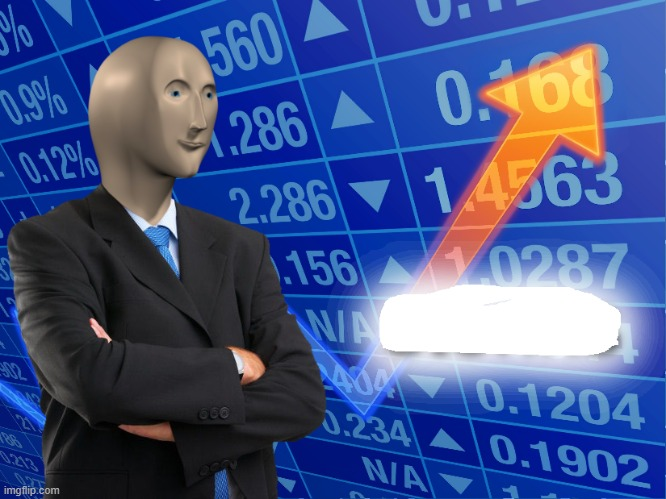
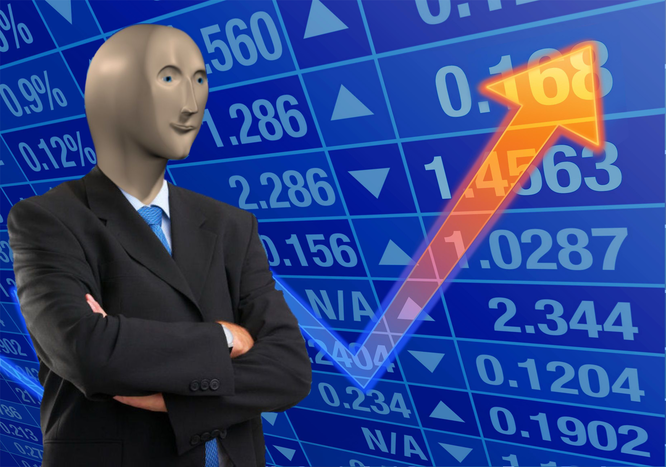
Add radial gradient in canvas

diff --git a/index.js b/index.js
@@ -1,29 +1,40 @@
 const input = $("#word");
 const output = $("#wordstonked");
 const button = $("button");
+
+//Canvas Settings
 const canvas = document.getElementById("stonkscanvas");
-const context = canvas.getContext("2d");
-const imageObj = new Image();
+const ctx = canvas.getContext("2d");
+ctx.shadowColor = "#fff";
+ctx.shadowBlur = 50;
+ctx.fillStyle = "#fff";
+ctx.font = "40pt Impact";
+ctx.strokeStyle = "#000";
 
 //Load image
-imageObj.onload = function() {
-  context.drawImage(imageObj, 10, 10);
+const imageObj = new Image();
+imageObj.onload = function () {
+  ctx.drawImage(imageObj, 10, 10);
 };
 imageObj.src = "stonks.jpg";
 
 // handle click and add class
-button.on("click", function() {
+button.on("click", function () {
   let word = input.val();
   console.log("Clicked");
   if (validate(word)) {
     console.log("Good word");
     let newWerd = stonksify(word);
     //Clear canvas before drawing new word
-    context.clearRect(0, 0, canvas.width, canvas.height);
+    ctx.clearRect(0, 0, canvas.width, canvas.height);
     //Redraw image
-    context.drawImage(imageObj, 10, 10);
-    context.font = "40pt Impact";
-    context.strokeText(newWerd, 430, 350);
+    ctx.drawImage(imageObj, 10, 10);
+    //Draw text multiple times so the white radial shadow is more pronounced
+    for (let i = 0; i < 10; i++) {
+      ctx.fillText(newWerd, 430, 350);
+    }
+    ctx.strokeText(newWerd, 430, 350);
+    ctx.strokeText(newWerd, 430, 350);
   }
 });
 
@@ -55,6 +66,13 @@ function stonksify(word) {
   //Example: frog => freg;
   if (word.split("o").length - 1 === 1) {
     word = word.replace(/o/g, "e");
+    return word;
+  }
+
+  //If a word ends in th, replace it with f
+  //Example: health => helf
+  if (word.endsWith("th") === 0) {
+    word = word.replace(/^c/g, "k");
     return word;
   }
 

diff --git a/index.html b/index.html
@@ -1,34 +1,33 @@
 <!DOCTYPE html>
 
 <html lang="en">
-  <head>
-    <meta charset="utf-8" />
-    <title>Stonksify</title>
-    <meta name="description" content="Stonksify your werds!" />
-    <meta name="author" content="The Boys" />
-    <link rel="stylesheet" href="./style.css" />
-    <link rel="icon" href="./meme_man.png" />
-  </head>
 
-  <body>
-    <div>
-      <h2>
-        Enter a werd!
-      </h2>
-      <input id="word" type="text" />
-      <button>
-        Stonksify
-      </button>
-      <br />
-      <br />
+<head>
+  <meta charset="utf-8" />
+  <title>Stonksify</title>
+  <meta name="description" content="Stonksify your werds!" />
+  <meta name="author" content="The Boys" />
+  <link rel="stylesheet" href="./style.css" />
+  <link rel="icon" href="./meme_man.png" />
+</head>
 
-      <canvas id="stonkscanvas" width="666" height="519"></canvas>
-    </div>
-    <script
-      src="https://code.jquery.com/jquery-3.4.1.min.js"
-      integrity="sha256-CSXorXvZcTkaix6Yvo6HppcZGetbYMGWSFlBw8HfCJo="
-      crossorigin="anonymous"
-    ></script>
-    <script src="./index.js"></script>
-  </body>
+<body>
+  <div>
+    <h2>
+      Enter a werd!
+    </h2>
+    <input id="word" type="text" />
+    <button>
+      Stonksify
+    </button>
+    <br />
+    <br />
+
+    <canvas id="stonkscanvas" width="666" height="519"></canvas>
+  </div>
+  <script src="https://code.jquery.com/jquery-3.4.1.min.js"
+    integrity="sha256-CSXorXvZcTkaix6Yvo6HppcZGetbYMGWSFlBw8HfCJo=" crossorigin="anonymous"></script>
+  <script src="./index.js"></script>
+</body>
+
 </html>
